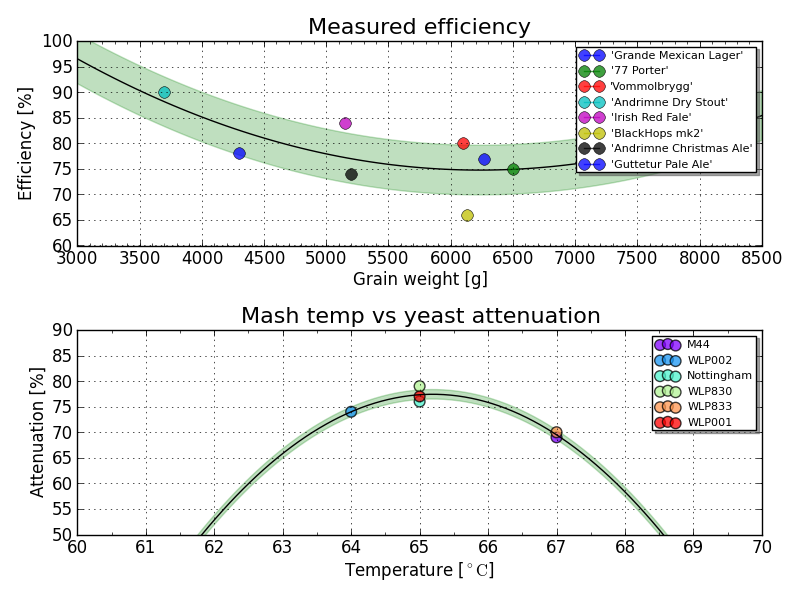
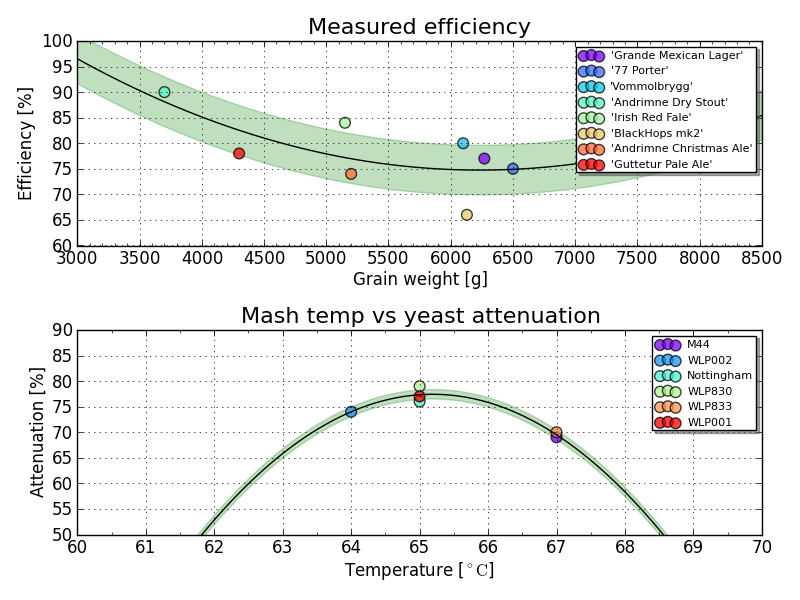
use zip instead of i++/index
Changed efficiency plot to use scatter instead of line plot

diff --git a/plot_all.py b/plot_all.py
@@ -31,11 +31,10 @@ def weight_vs_efficiency_figure(subplot):
     subplot.set_title("Measured efficiency", fontsize=16)
     subplot.plot(wxp, wyp, 'k')
     subplot.fill_between(wxp, wyp - wsig, wyp + wsig, color='green', alpha=0.25)
-    i=0
-    for x,y in zip(wx,wy):
-        pl.plot(x,y,marker="o", markersize=8,label=weightdata["Remarks"][i], alpha=0.75)
-        i = i + 1 
-     
+    colors = make_colors(len(wx))
+
+    for x,y,color,label in zip(wx,wy,colors,weightdata["Remarks"]):
+        pl.scatter(x,y, s=60, color=color, edgecolors="black", label=label, alpha=0.75)
 
     subplot.set_xlim(3000,8500)
     subplot.set_ylim(60,100)
@@ -76,7 +75,8 @@ def mashtemp_vs_attenuation_figure(subplot):
     
     for yeast,color in zip(yeasttypes,colors):
             brews = data[data["Yeast type"].str.contains(yeast)]
-            pl.scatter(brews["Mash temperature [C]"], brews["Attenuation [%]"], 60, color=color, edgecolors="black", label=yeast, alpha=0.75)
+            print yeast, len(brews)
+            pl.scatter(brews["Mash temperature [C]"], brews["Attenuation [%]"], s=60, color=color, edgecolors="black", label=yeast, alpha=0.75)
     #End
     
     
